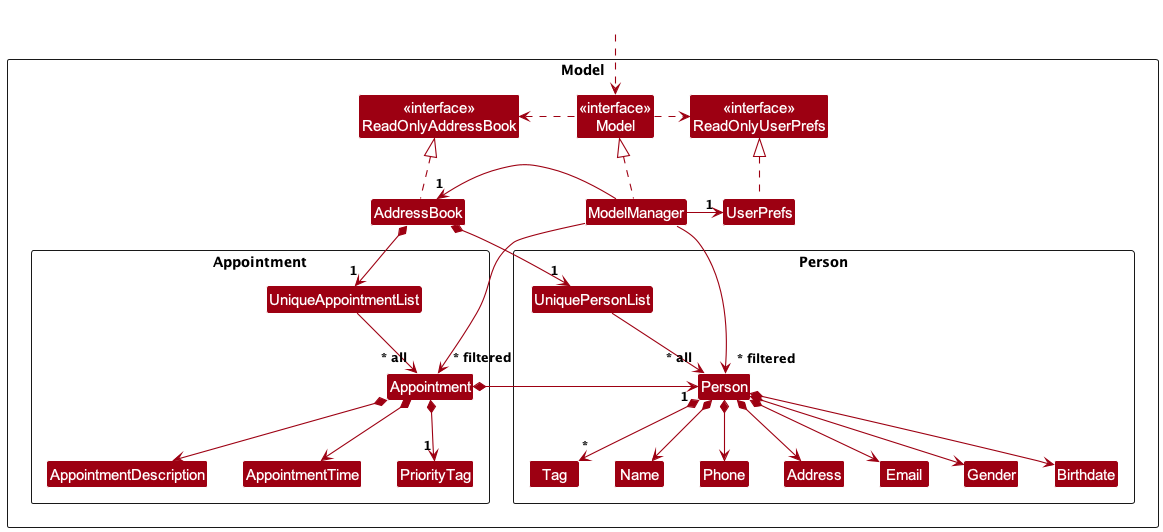
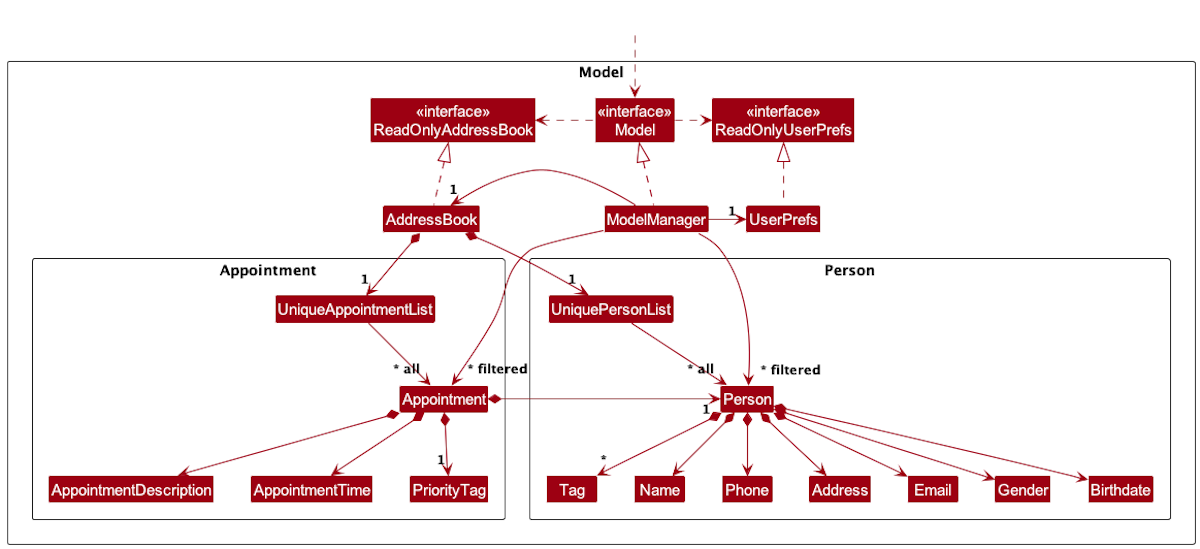
Add changes to developer guide

diff --git a/docs/DeveloperGuide.md b/docs/DeveloperGuide.md
@@ -38,7 +38,7 @@ Given below is a quick overview of main components and how they interact with ea
 
 **Main components of the architecture**
 
-**`Main`** (consisting of classes [`Main`](https://github.com/se-edu/addressbook-level3/tree/master/src/main/java/seedu/address/Main.java) and [`MainApp`](https://github.com/se-edu/addressbook-level3/tree/master/src/main/java/seedu/address/MainApp.java)) is in charge of the app launch and shut down.
+**`Main`** (consisting of classes [`Main`](https://github.com/AY2324S1-CS2103T-T08-4/tp/blob/master/src/main/java/seedu/address/Main.java) and [`MainApp`](https://github.com/AY2324S1-CS2103T-T08-4/tp/blob/master/src/main/java/seedu/address/MainApp.java)) is in charge of the app launch and shut down.
 * At app launch, it initializes the other components in the correct sequence, and connects them up with each other.
 * At shut down, it shuts down the other components and invokes cleanup methods where necessary.
 
@@ -70,7 +70,7 @@ The sections below give more details of each component.
 
 ### UI component
 
-The **API** of this component is specified in [`Ui.java`](https://github.com/se-edu/addressbook-level3/tree/master/src/main/java/seedu/address/ui/Ui.java)
+The **API** of this component is specified in [`Ui.java`](https://github.com/AY2324S1-CS2103T-T08-4/tp/blob/master/src/main/java/seedu/address/ui/Ui.java)
 
 ![Structure of the UI Component](images/UiClassDiagram.png)
 
@@ -87,7 +87,7 @@ The `UI` component,
 
 ### Logic component
 
-**API** : [`Logic.java`](https://github.com/se-edu/addressbook-level3/tree/master/src/main/java/seedu/address/logic/Logic.java)
+**API** : [`Logic.java`](https://github.com/AY2324S1-CS2103T-T08-4/tp/blob/master/src/main/java/seedu/address/logic/Logic.java)
 
 Here's a (partial) class diagram of the `Logic` component:
 
@@ -116,9 +116,9 @@ How the parsing works:
 * All `XYZCommandParser` classes (e.g., `AddCommandParser`, `DeleteCommandParser`, ...) inherit from the `Parser` interface so that they can be treated similarly where possible e.g, during testing.
 
 ### Model component
-**API** : [`Model.java`](https://github.com/se-edu/addressbook-level3/tree/master/src/main/java/seedu/address/model/Model.java)
+**API** : [`Model.java`](https://github.com/AY2324S1-CS2103T-T08-4/tp/blob/master/src/main/java/seedu/address/model/Model.java)
 
-<img src="images/ModelClassDiagram.png" width="450" />
+<img src="images/ModelClassDiagram.png" />
 
 
 The `Model` component,
@@ -137,7 +137,7 @@ The `Model` component,
 
 ### Storage component
 
-**API** : [`Storage.java`](https://github.com/se-edu/addressbook-level3/tree/master/src/main/java/seedu/address/storage/Storage.java)
+**API** : [`Storage.java`](https://github.com/AY2324S1-CS2103T-T08-4/tp/blob/master/src/main/java/seedu/address/storage/Storage.java)
 
 <img src="images/StorageClassDiagram.png" width="550" />
 
@@ -1319,7 +1319,7 @@ can be added to the patient records. However, that can be very confusing for use
 a duplicate patient into the records but with a different casing for the patient name. We plan to make the checking for any
 duplicates in patient names case-insensitive so that this will no longer be an issue.
 
-4. Similar to Point 2, currently, illnesses with the same name but with different casing, i.e. same letters but different in uppercase/lowercase,
+4. Currently, illnesses with the same name but with different casing, i.e. same letters but different in uppercase/lowercase,
 can be added to the same patient. However, that can be very confusing for users, especially if they had accidentally added
 a duplicate illness to the same patient but with a different casing for the illness name. We plan to make the checking for any
 duplicates in illness names case-insensitive so that this will no longer be an issue.
@@ -1334,6 +1334,9 @@ such that birthdates after the current date will not be considered a valid birth
 
 7. Currently, the find command only is able to find by name. We plan to add the functionality to find anything that 
 matches the given conditions that could be other variables of a patient or appointment such as range of birthdays.
+
+8. Currently, patients with the same name but different amount of spacings, e.g. `John Doe` and `John  Doe` with 2 spaces,
+are allowed to be added into the application. We plan to add a validation that will ignore extra spaces when checking for duplicate names.
 
 --------------------------------------------------------------------------------------------------------------------
 
